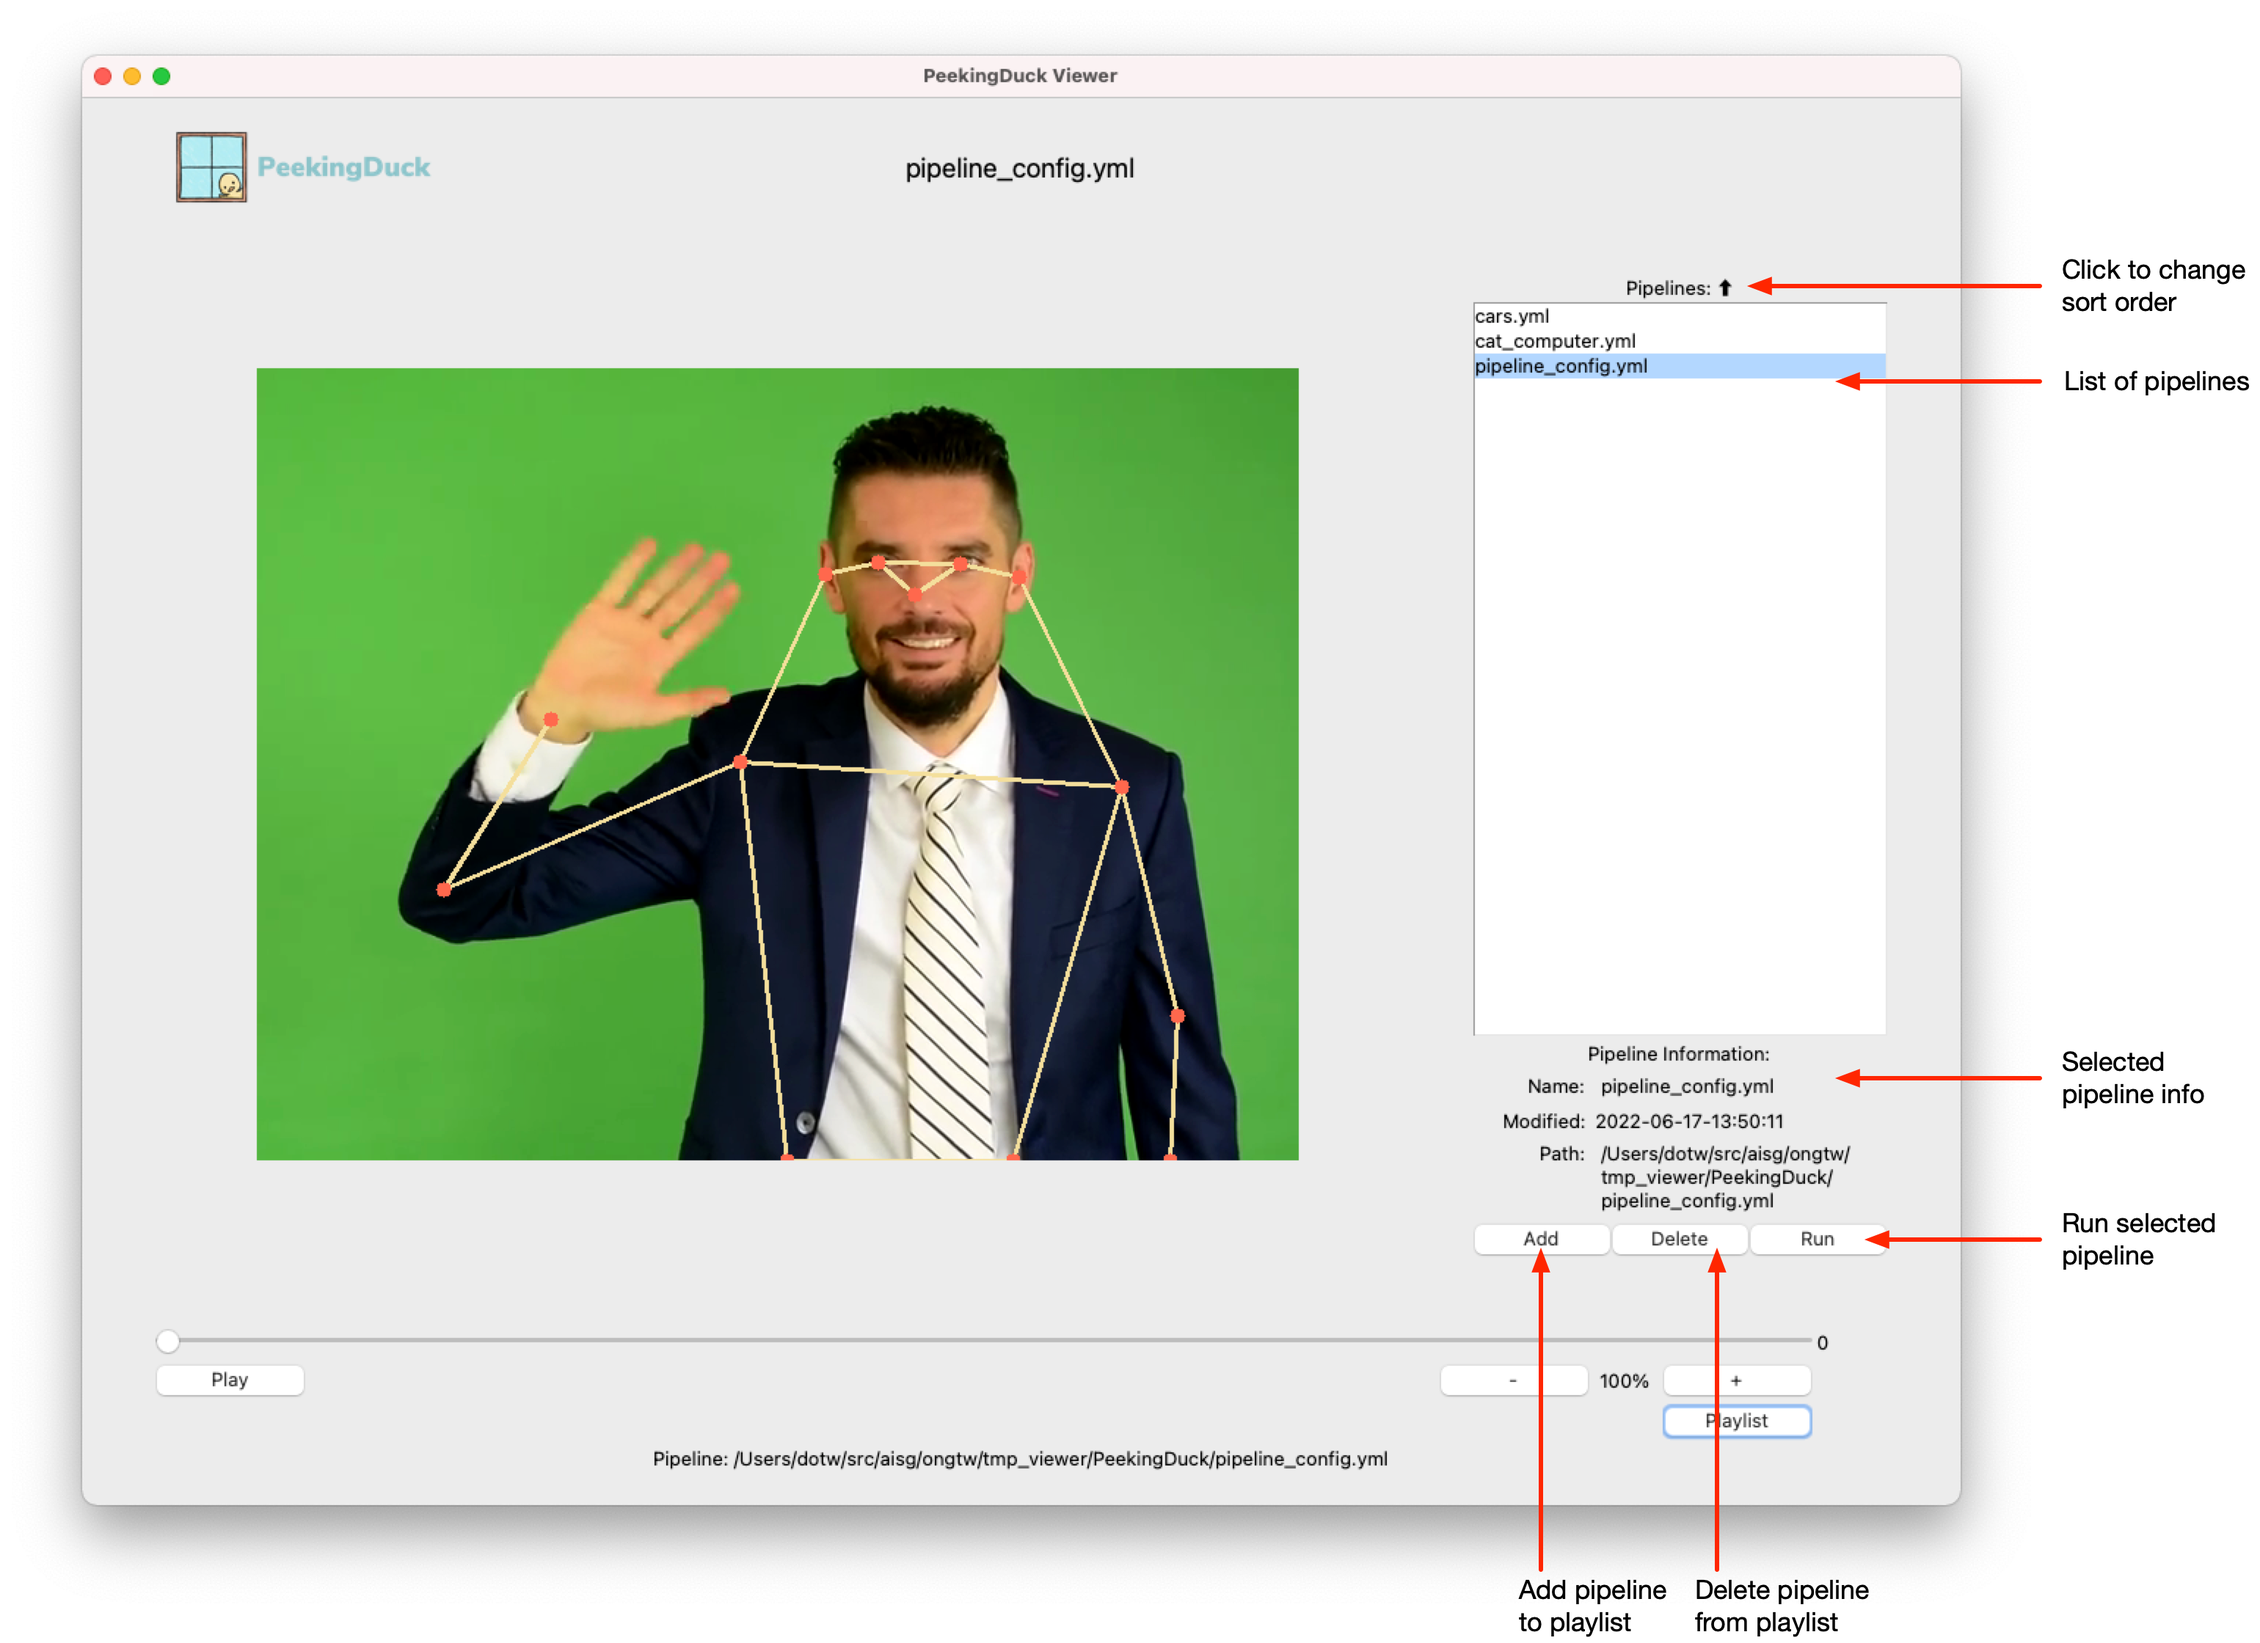
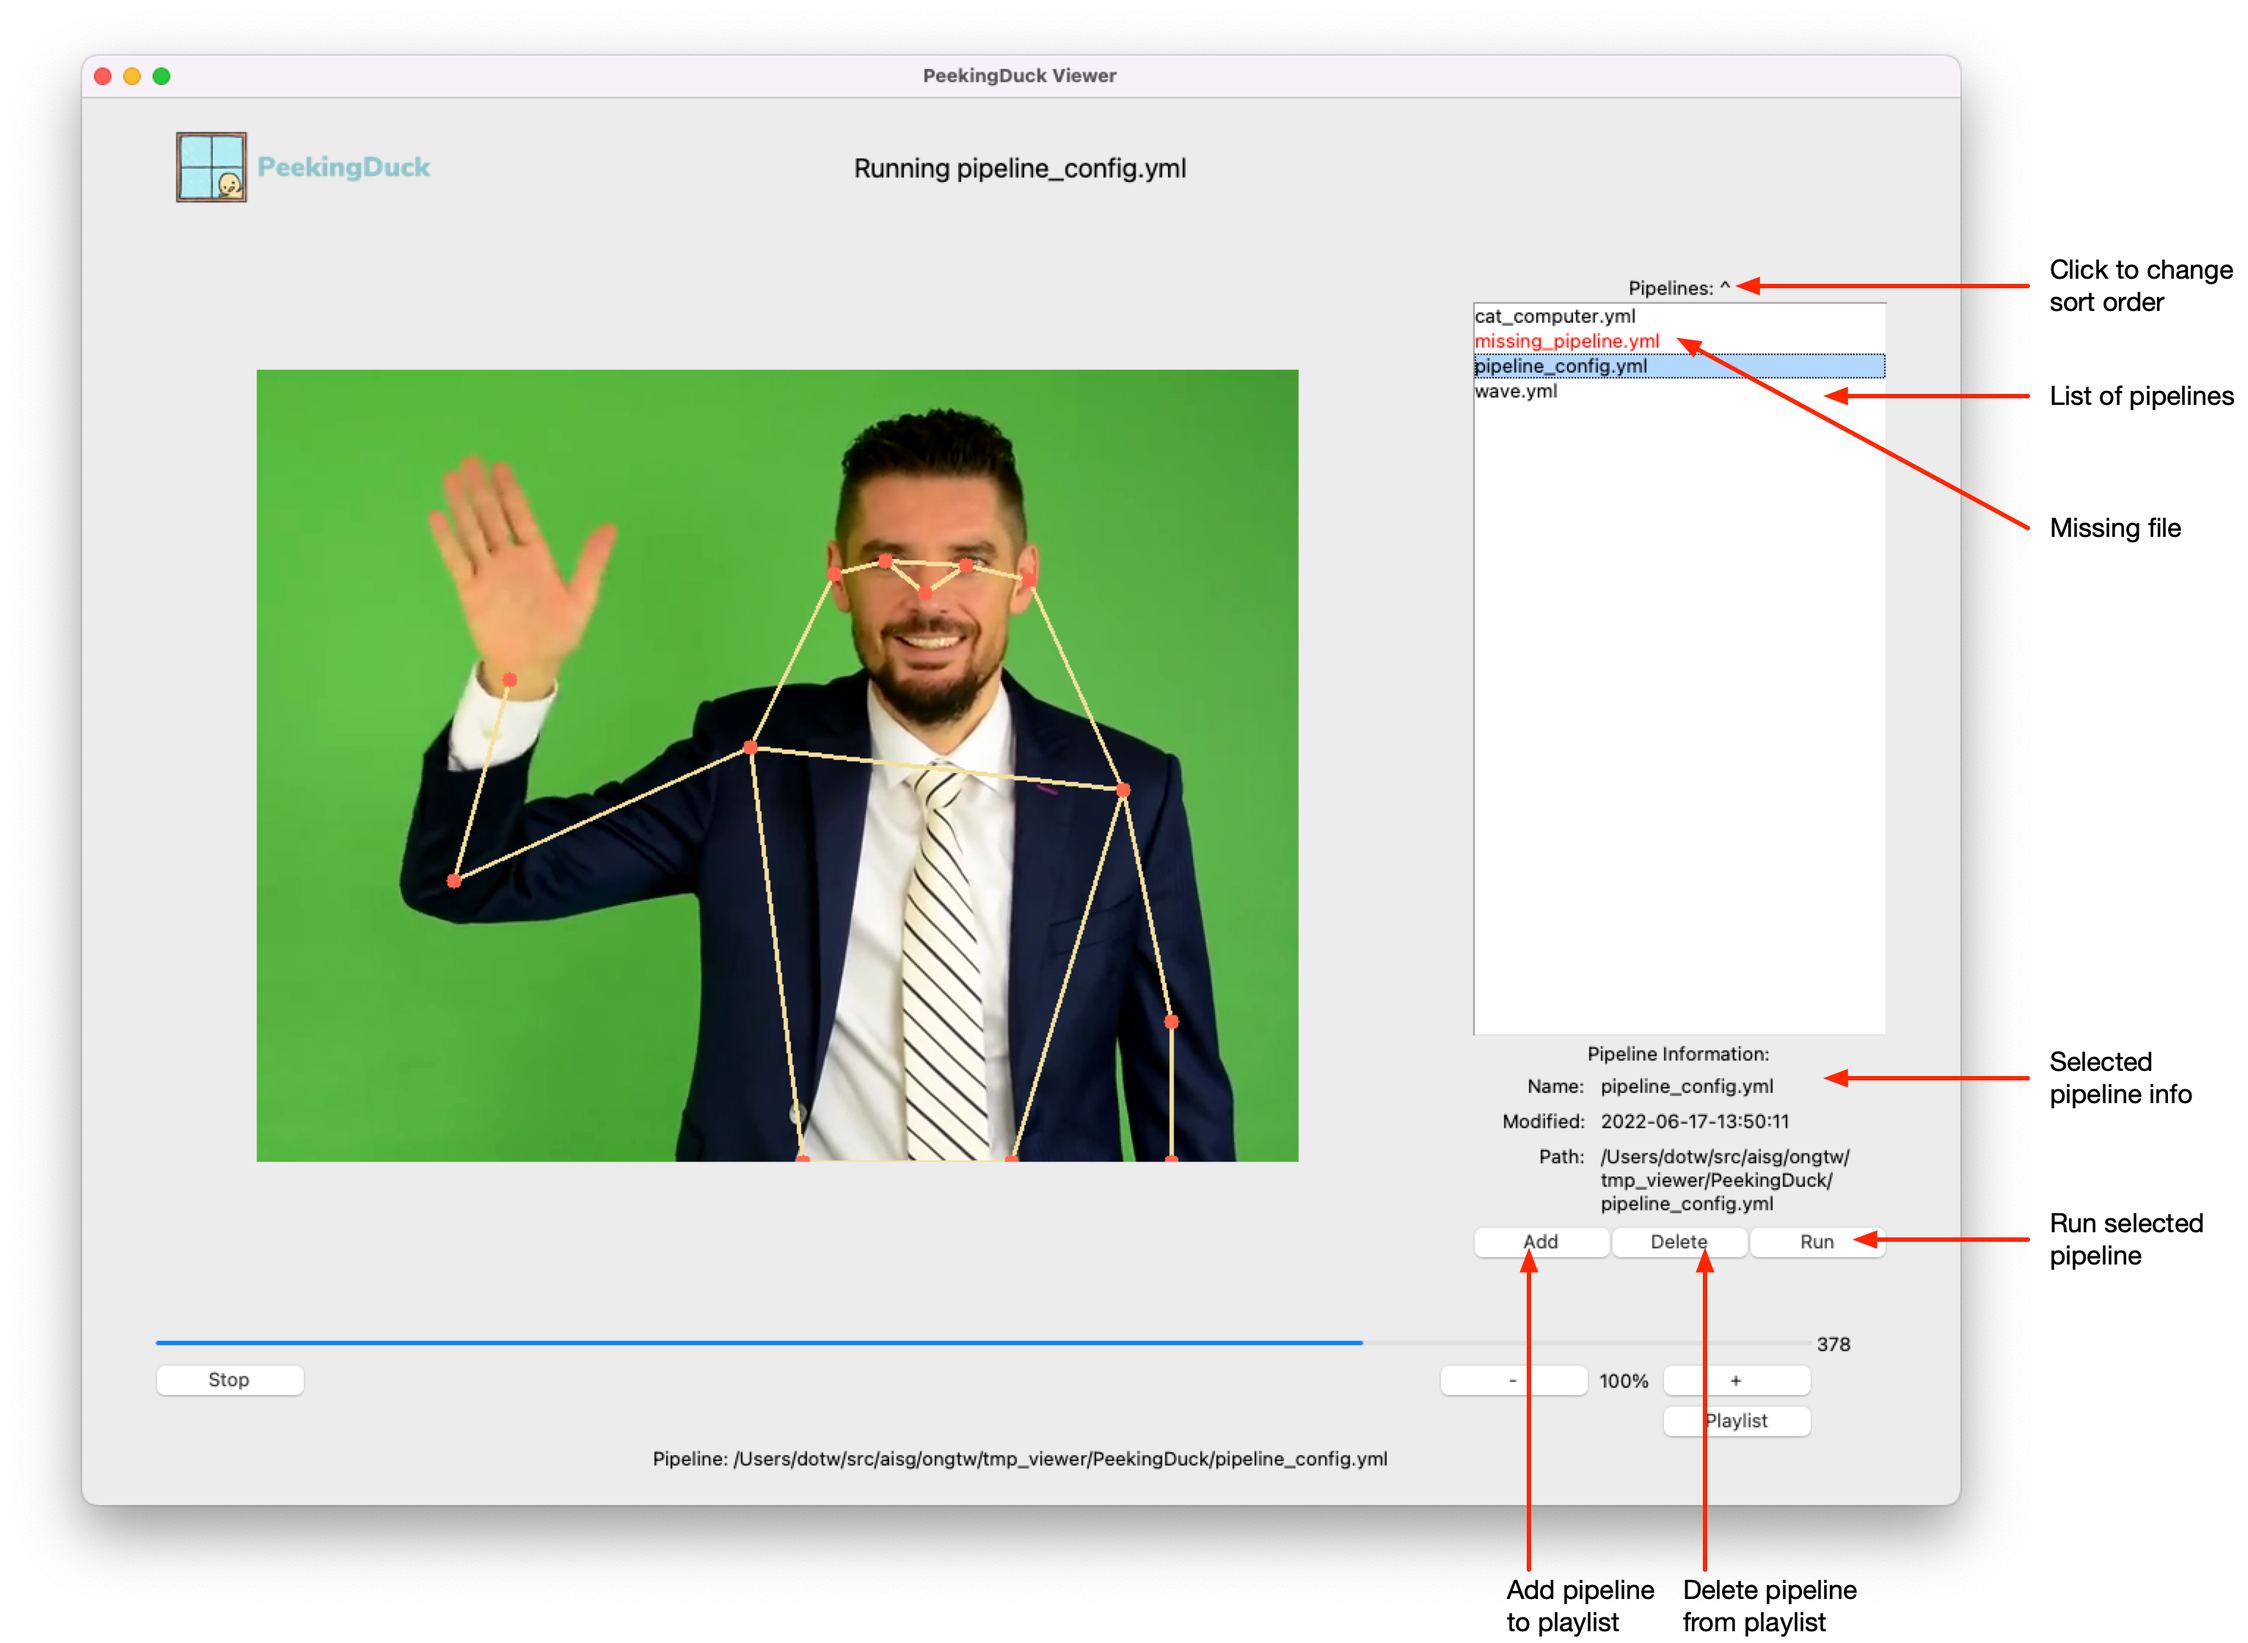
- change zoom reset keyboard shortcut to CTRL-= - update docs with keyboard shortcuts, explanation of red pipeline - update Playlist View to save initial sytem foreground color for better cross platform support

diff --git a/peekingduck/viewer/single_column_view.py b/peekingduck/viewer/single_column_view.py
@@ -35,6 +35,7 @@ class SingleColumnPlayListView:  # pylint: disable=too-few-public-methods, too-m
         self._callback: Dict[str, Callable] = {}
         self._selected: Union[None, str] = None
         self._sort_desc = False
+        self._tk_fg_system = ""  # different for diff platforms
         self.create_tk_widgets()
         self.redraw_view()
 
@@ -117,6 +118,10 @@ class SingleColumnPlayListView:  # pylint: disable=too-few-public-methods, too-m
             self._pipeline_to_index_map[stats.pipeline] = i
             self._index_to_stats_map[i] = stats
             self.tk_listbox.insert(i, stats.name)
+            if len(self._tk_fg_system) == 0:
+                # save platform specific foreground color
+                self._tk_fg_system = self.tk_listbox["fg"]
+                self.logger.debug(f"saving system foreground='{self._tk_fg_system}'")
             if len(stats.datetime) == 0:
                 self.tk_listbox.itemconfig(i, {"fg": "red"})  # mark as error
         self.header["text"] = f"Pipelines: {'v' if self._sort_desc else '^'}"
@@ -171,7 +176,7 @@ class SingleColumnPlayListView:  # pylint: disable=too-few-public-methods, too-m
         self._info_name["text"] = stats.name
         if stats.datetime:
             display_datetime = f"{stats.datetime}"
-            self._info_datetime["foreground"] = "systemTextColor"
+            self._info_datetime["foreground"] = self._tk_fg_system
         else:
             display_datetime = "missing file"
             self._info_datetime["foreground"] = "red"

diff --git a/peekingduck/viewer/viewer.py b/peekingduck/viewer/viewer.py
@@ -94,7 +94,7 @@ class Viewer:  # pylint: disable=too-many-instance-attributes, too-many-public-m
         self.playlist.add_pipeline(self.pipeline_full_path)
         # configure keyboard shortcuts map
         self._keyboard_shortcuts = {
-            "z": self._zoom_reset,
+            "=": self._zoom_reset,
             "+": self._zoom_in,
             "-": self._zoom_out,
         }

diff --git a/docs/source/ecosystem/viewer.rst b/docs/source/ecosystem/viewer.rst
@@ -58,6 +58,8 @@ To move frame-by-frame forward/backward, click the *left* mouse button anywhere 
 right/left of the current slider position.
 
 The ``+`` (zoom in) and ``-`` (zoom out) buttons allow you to adjust the video size. 
+You may also use keyboard shortcuts to adjust the zoom: ``CTRL`` - ``-`` zoom out,
+``CTRL`` - ``+`` zoom in, ``CTRL`` - ``=`` reset zoom
 
 
 Using the Pipeline Playlist
@@ -88,10 +90,10 @@ added to your playlist.
 The ``Delete`` button will remove the currently selected pipeline from the playlist, after 
 you have confirmed the deletion. 
 
-A red ``X`` beside the pipeline indicates that the pipeline YAML file is missing. 
+If the pipeline in the playlist is red, it means the pipeline YAML file is missing. 
 This could mean the pipeline had been added earlier, but its YAML file had since been 
 deleted or moved to another folder. 
-Delete the ``X`` pipeline entry to remove it from the playlist.
+Delete the missing pipeline entry to remove it from the playlist.
 
 The list of pipelines can be sorted in reverse order by clicking the playlist header.
 
